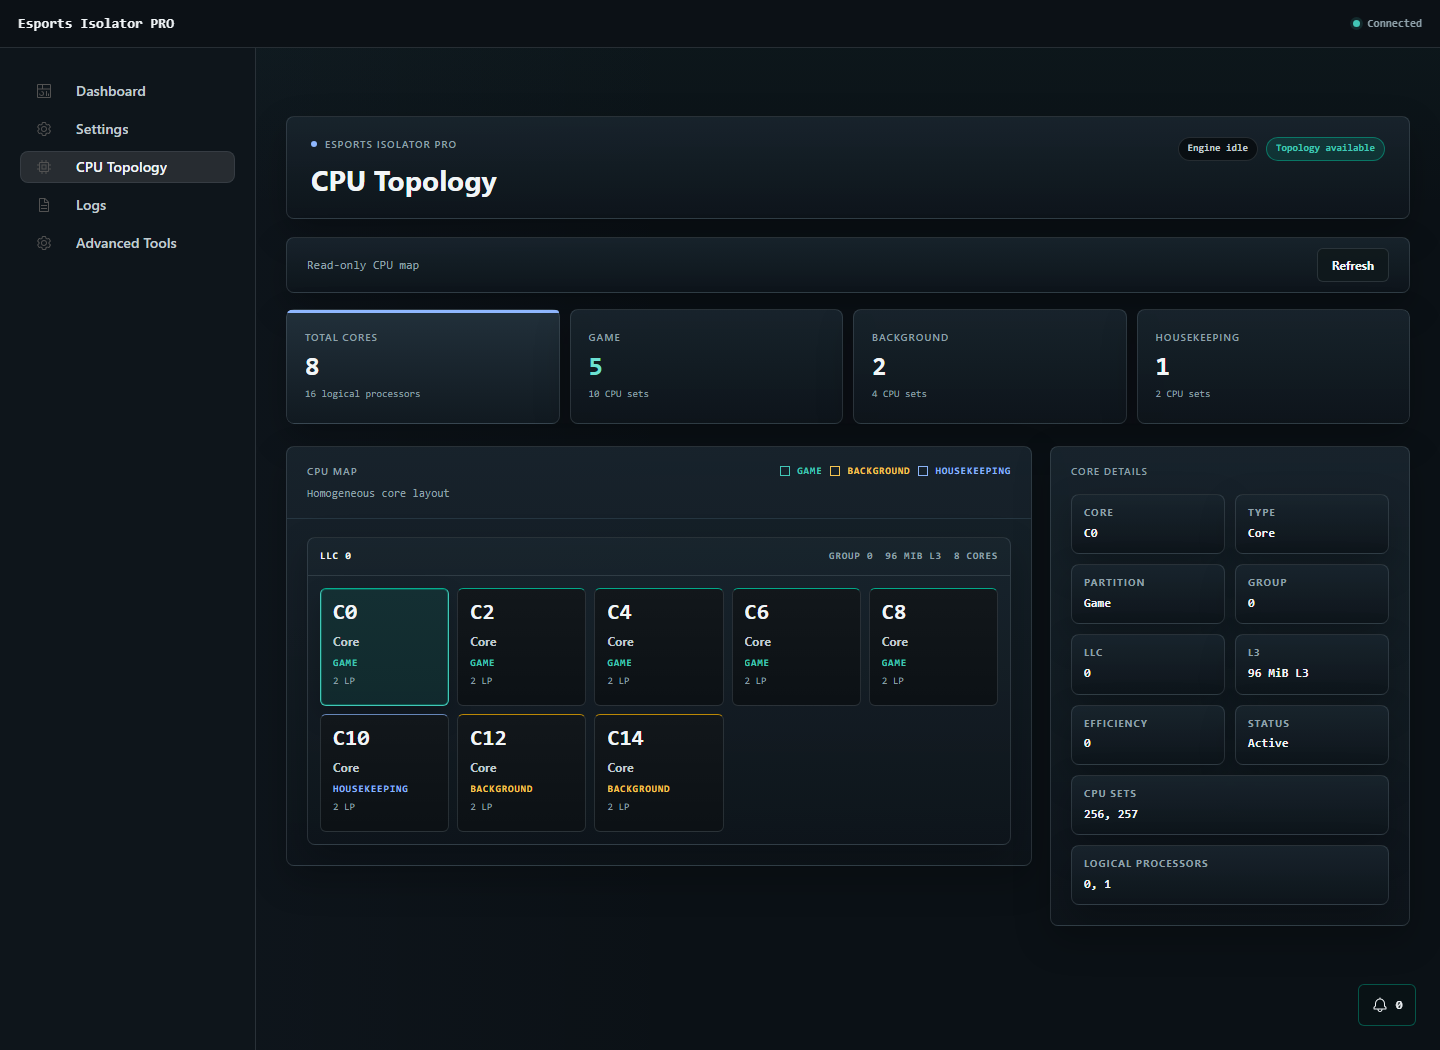
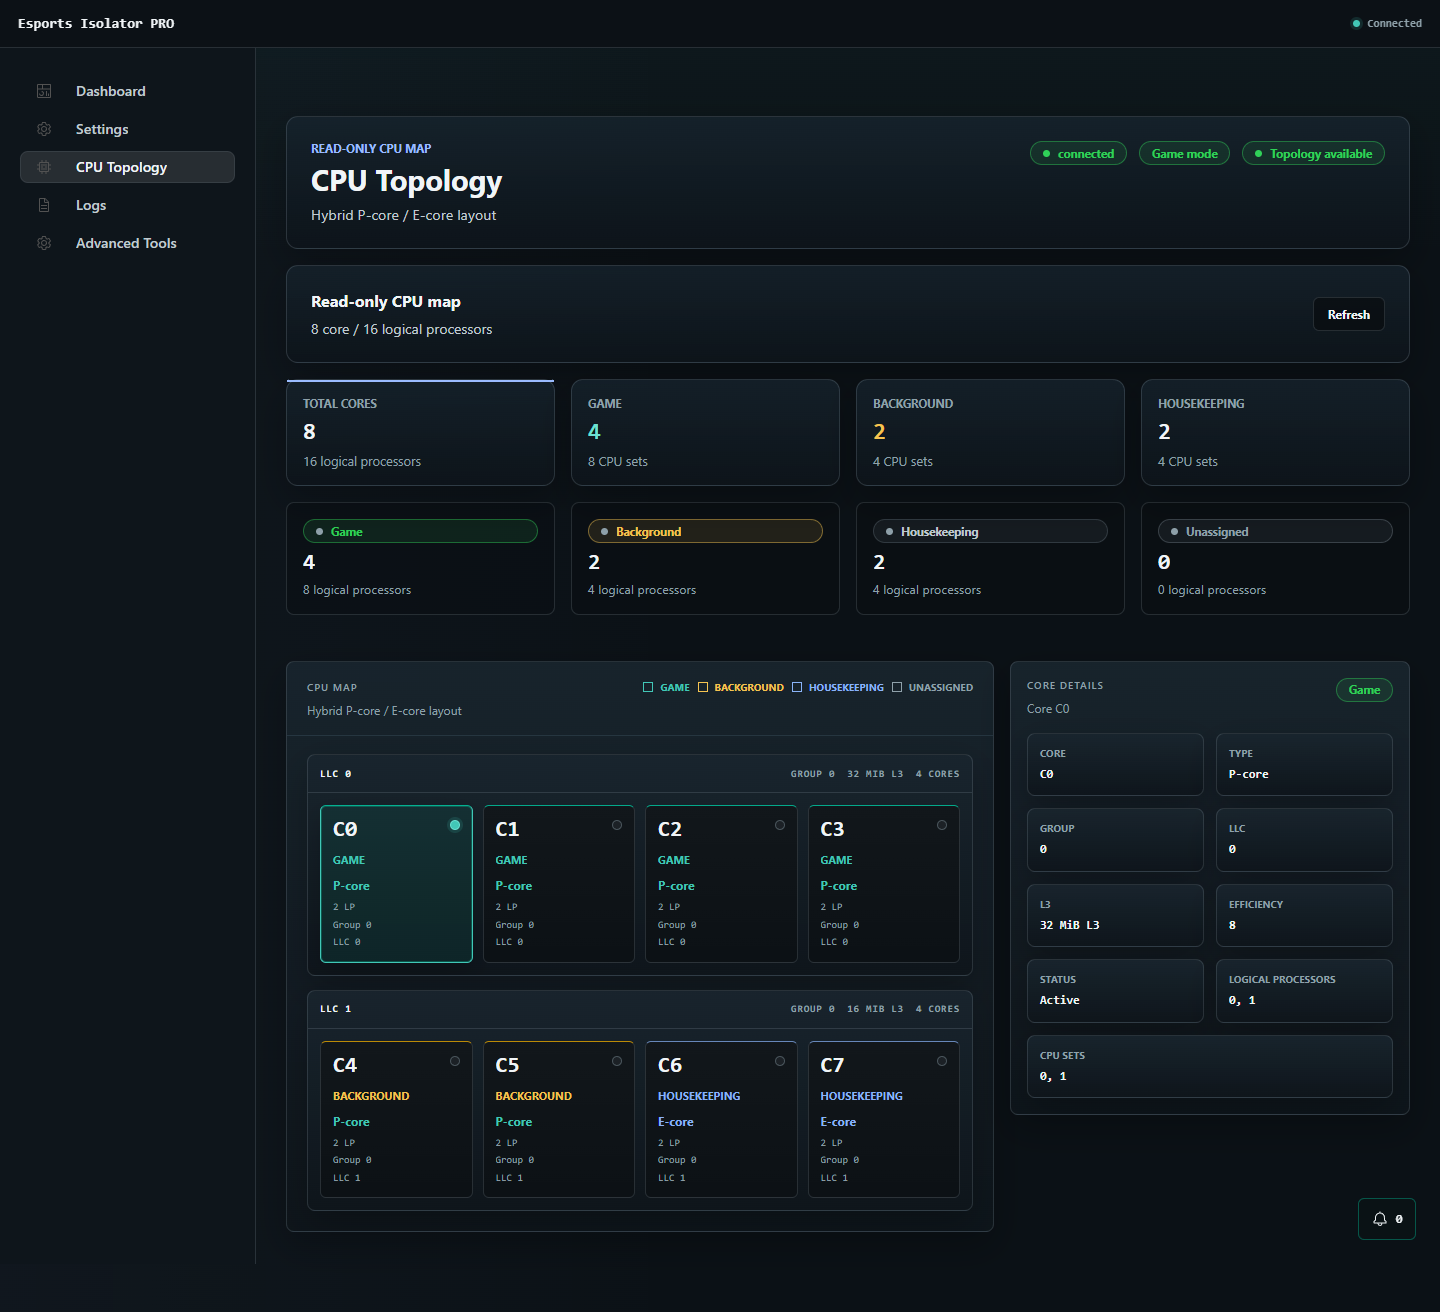
Refresh release screenshots after UI polish

diff --git a/docs/ui-redesign-plan.md b/docs/ui-redesign-plan.md
@@ -217,6 +217,11 @@ Scope:
 2. README screenshot references if needed.
 3. Release notes screenshot references if needed.
 
+Status: refreshed after the Dashboard, Settings, Topology, visual regression,
+and accessibility passes using deterministic mock renderer data. Public README
+screenshots now cover the Dashboard command center, Settings safety hierarchy,
+and CPU Topology core map without local usernames, tokens, or private paths.
+
 Rules:
 
 1. Capture dashboard, topology, settings, logs, and diagnostic/error states.